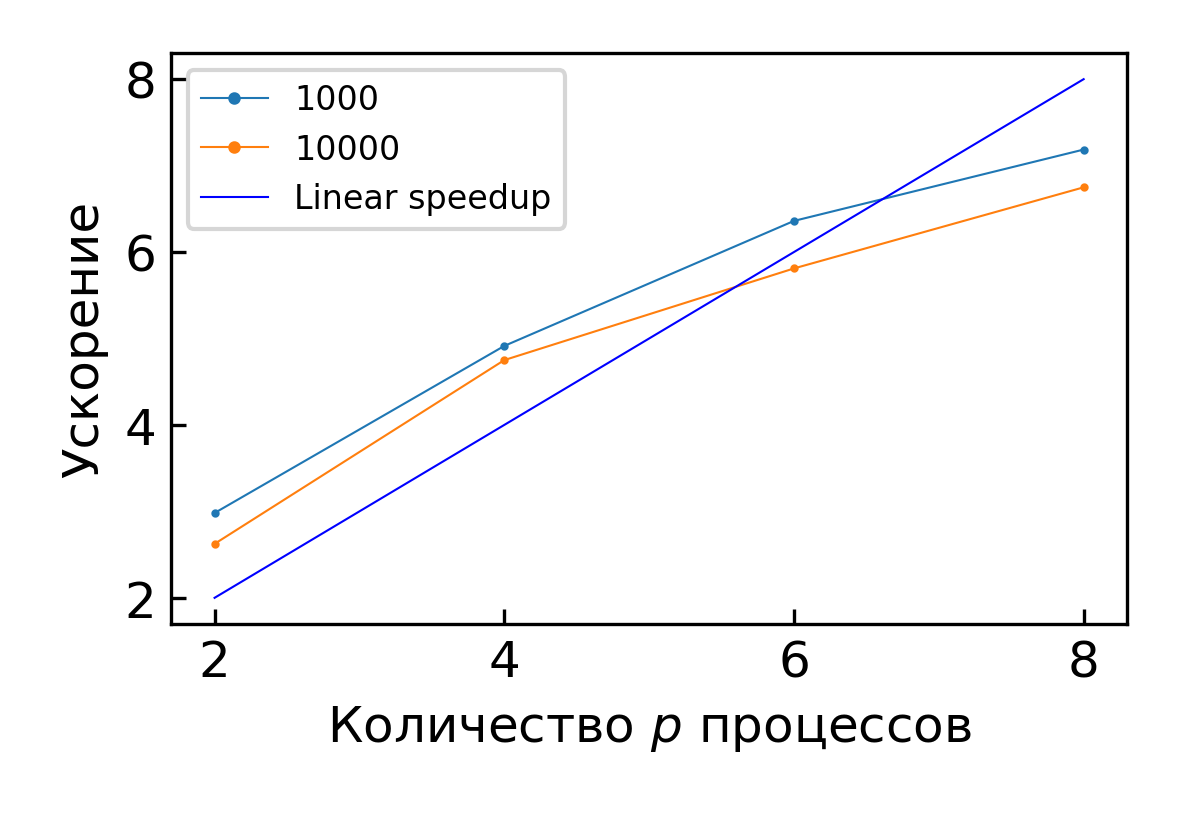
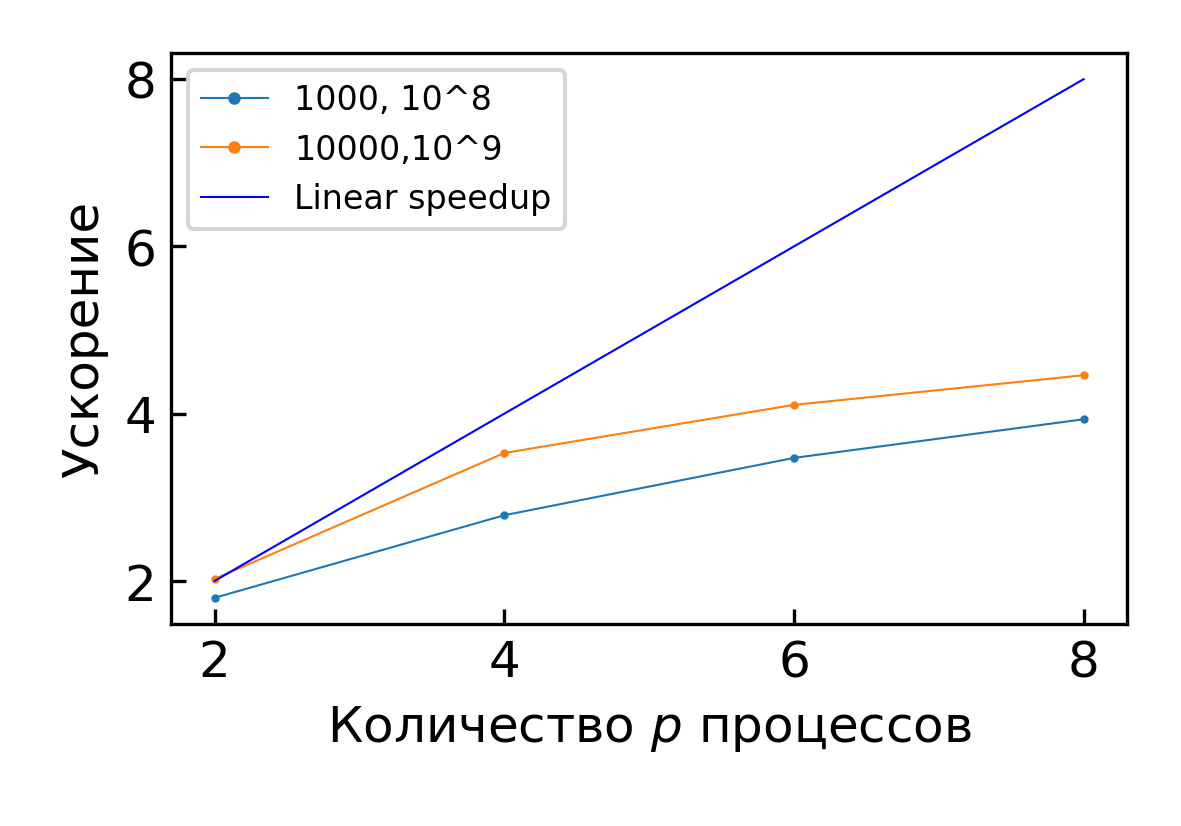
fix bags

diff --git a/lab5/parallel.c b/lab5/parallel.c
@@ -97,8 +97,9 @@ int main()
     t = wtime() - t;
     printf("%lf - время последовательной программы\n", t);
 // quicksort(arr, 0, N - 1);
-    for (int i = 2 ;i < 8; i+=2)
+    for (int i = 2 ;i <= 8; i+=2)
     {
+        init(&arr);
         double time = wtime();
     #pragma omp parallel num_threads(i)
         {

diff --git a/lab5/draw.py b/lab5/draw.py
@@ -43,4 +43,4 @@ def draw(filenames, labels):
     #fig.savefig('chart.pdf', dpi=300)
 
 if __name__ == "__main__":
-    draw(["1000,10^8.txt", "10000,10^9.txt"], ["1000","10000"])
+    draw(["1000,10^8.txt", "10000,10^9.txt"], ["1000, 10^8","10000,10^9"])
